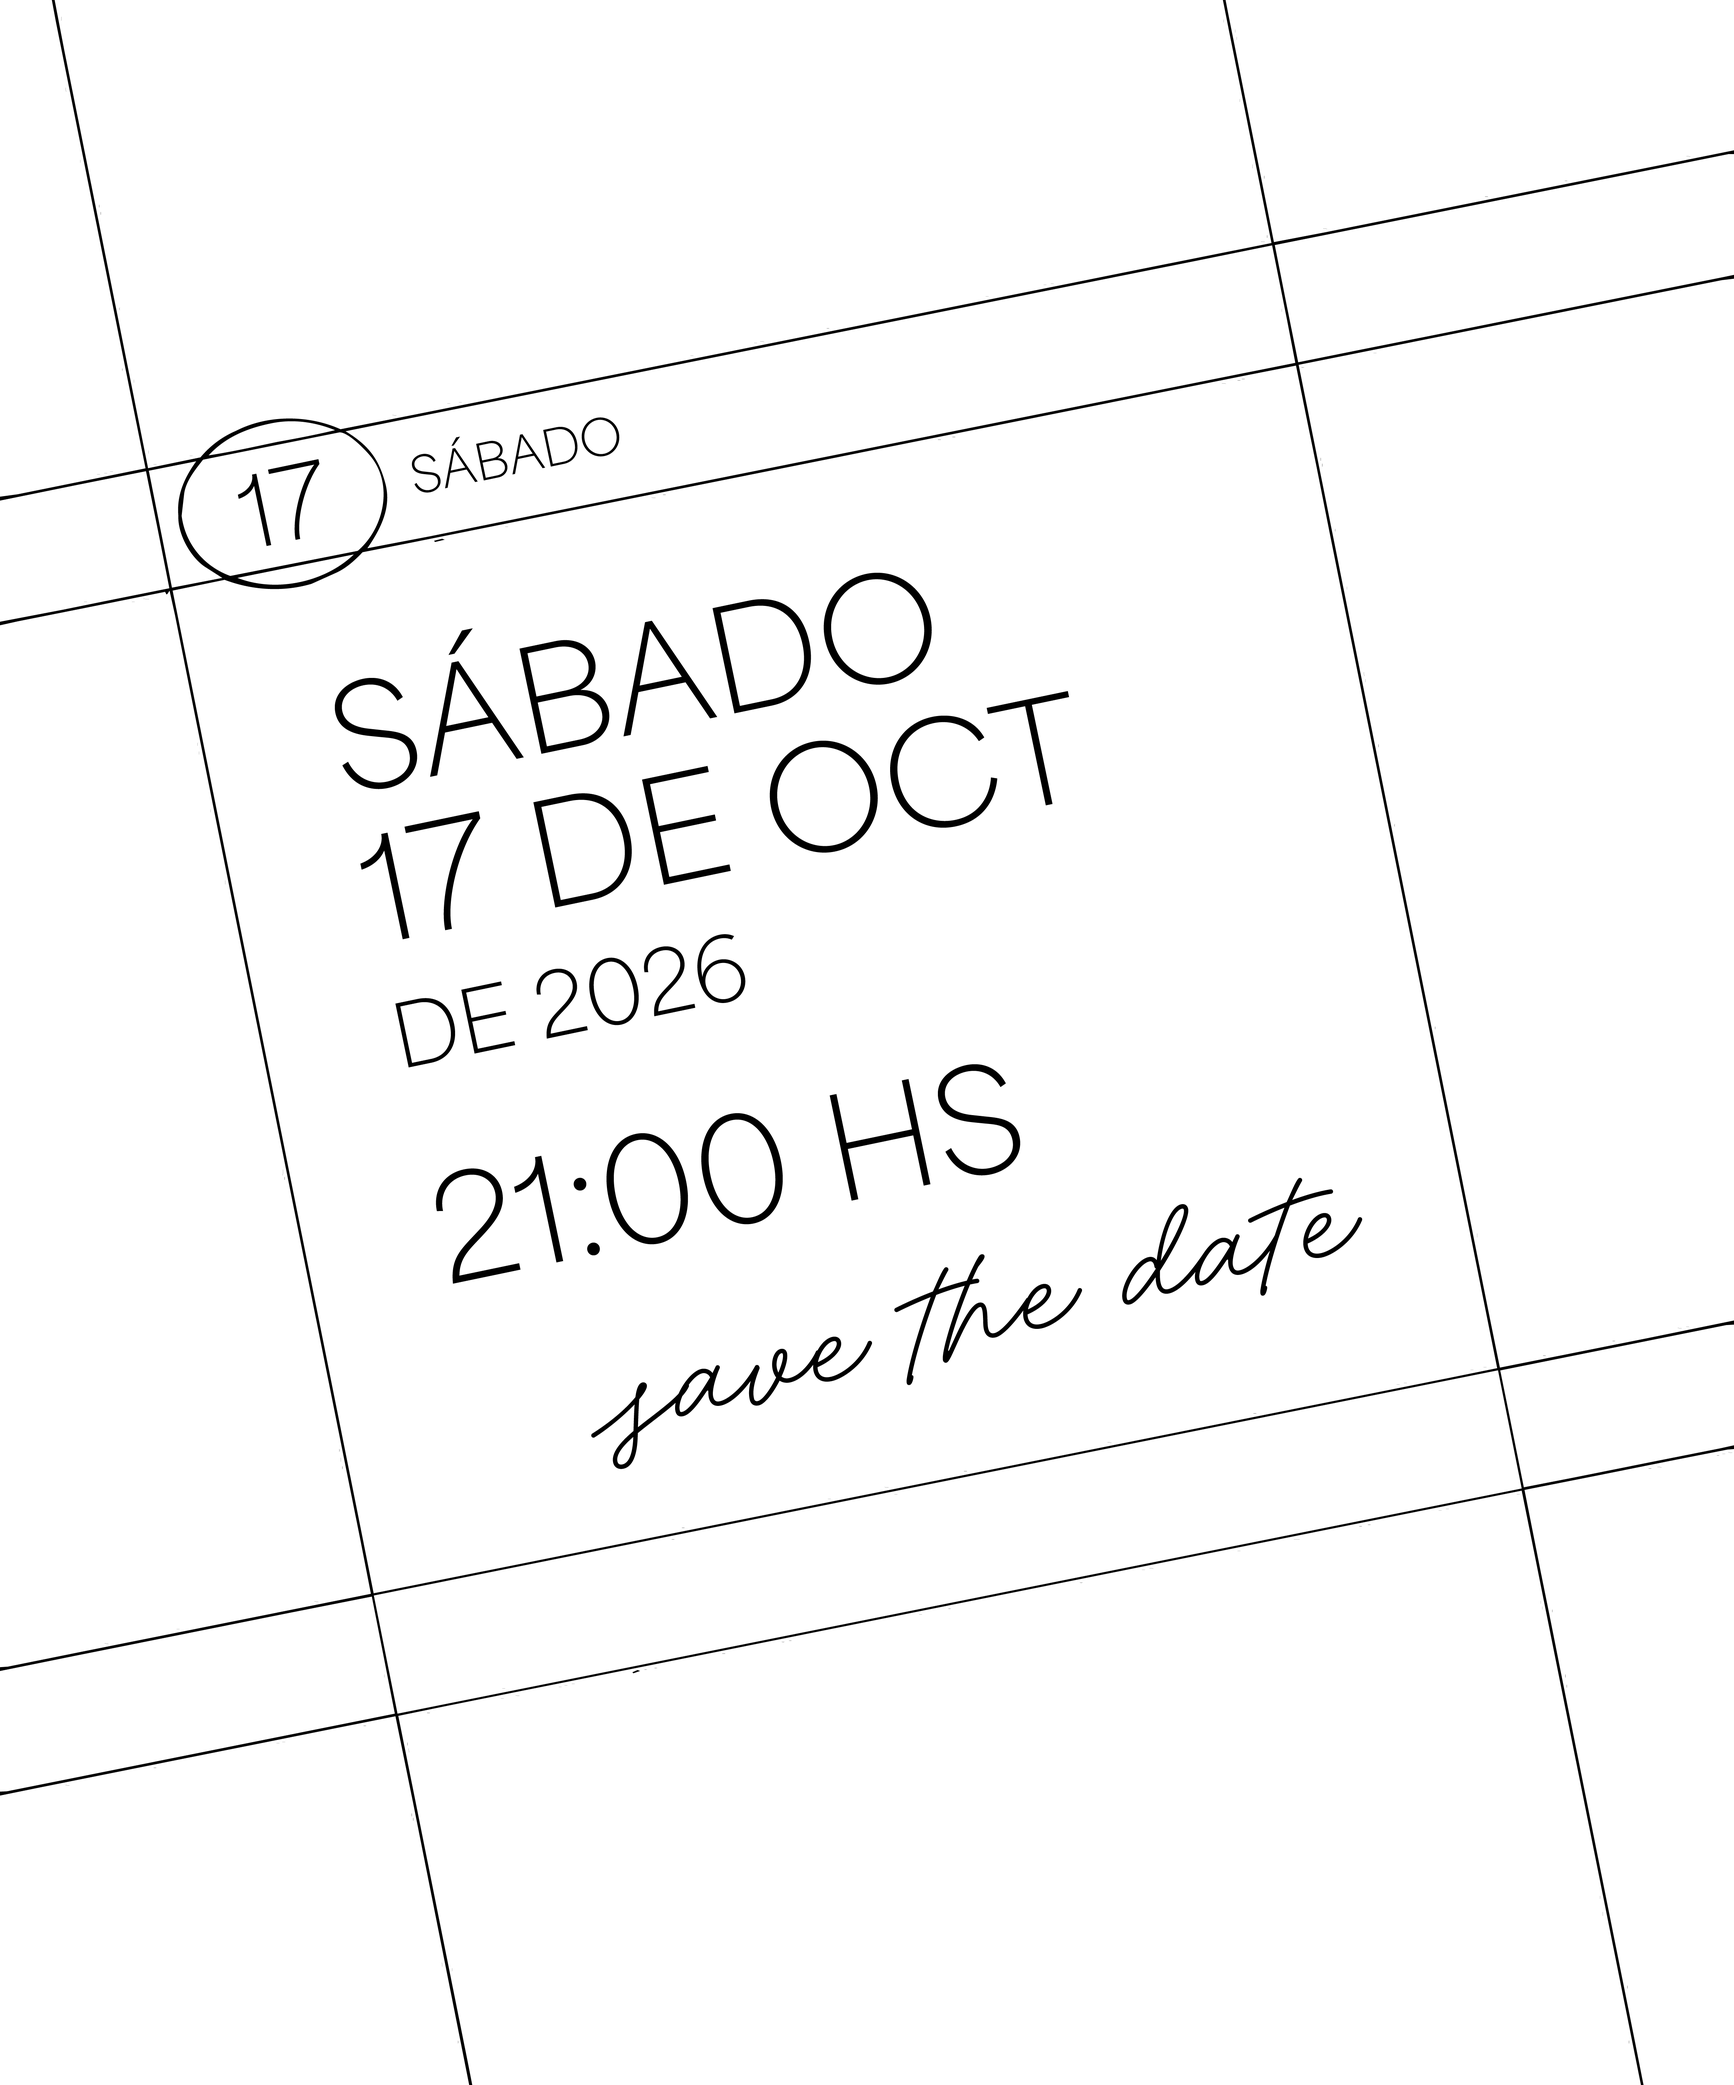
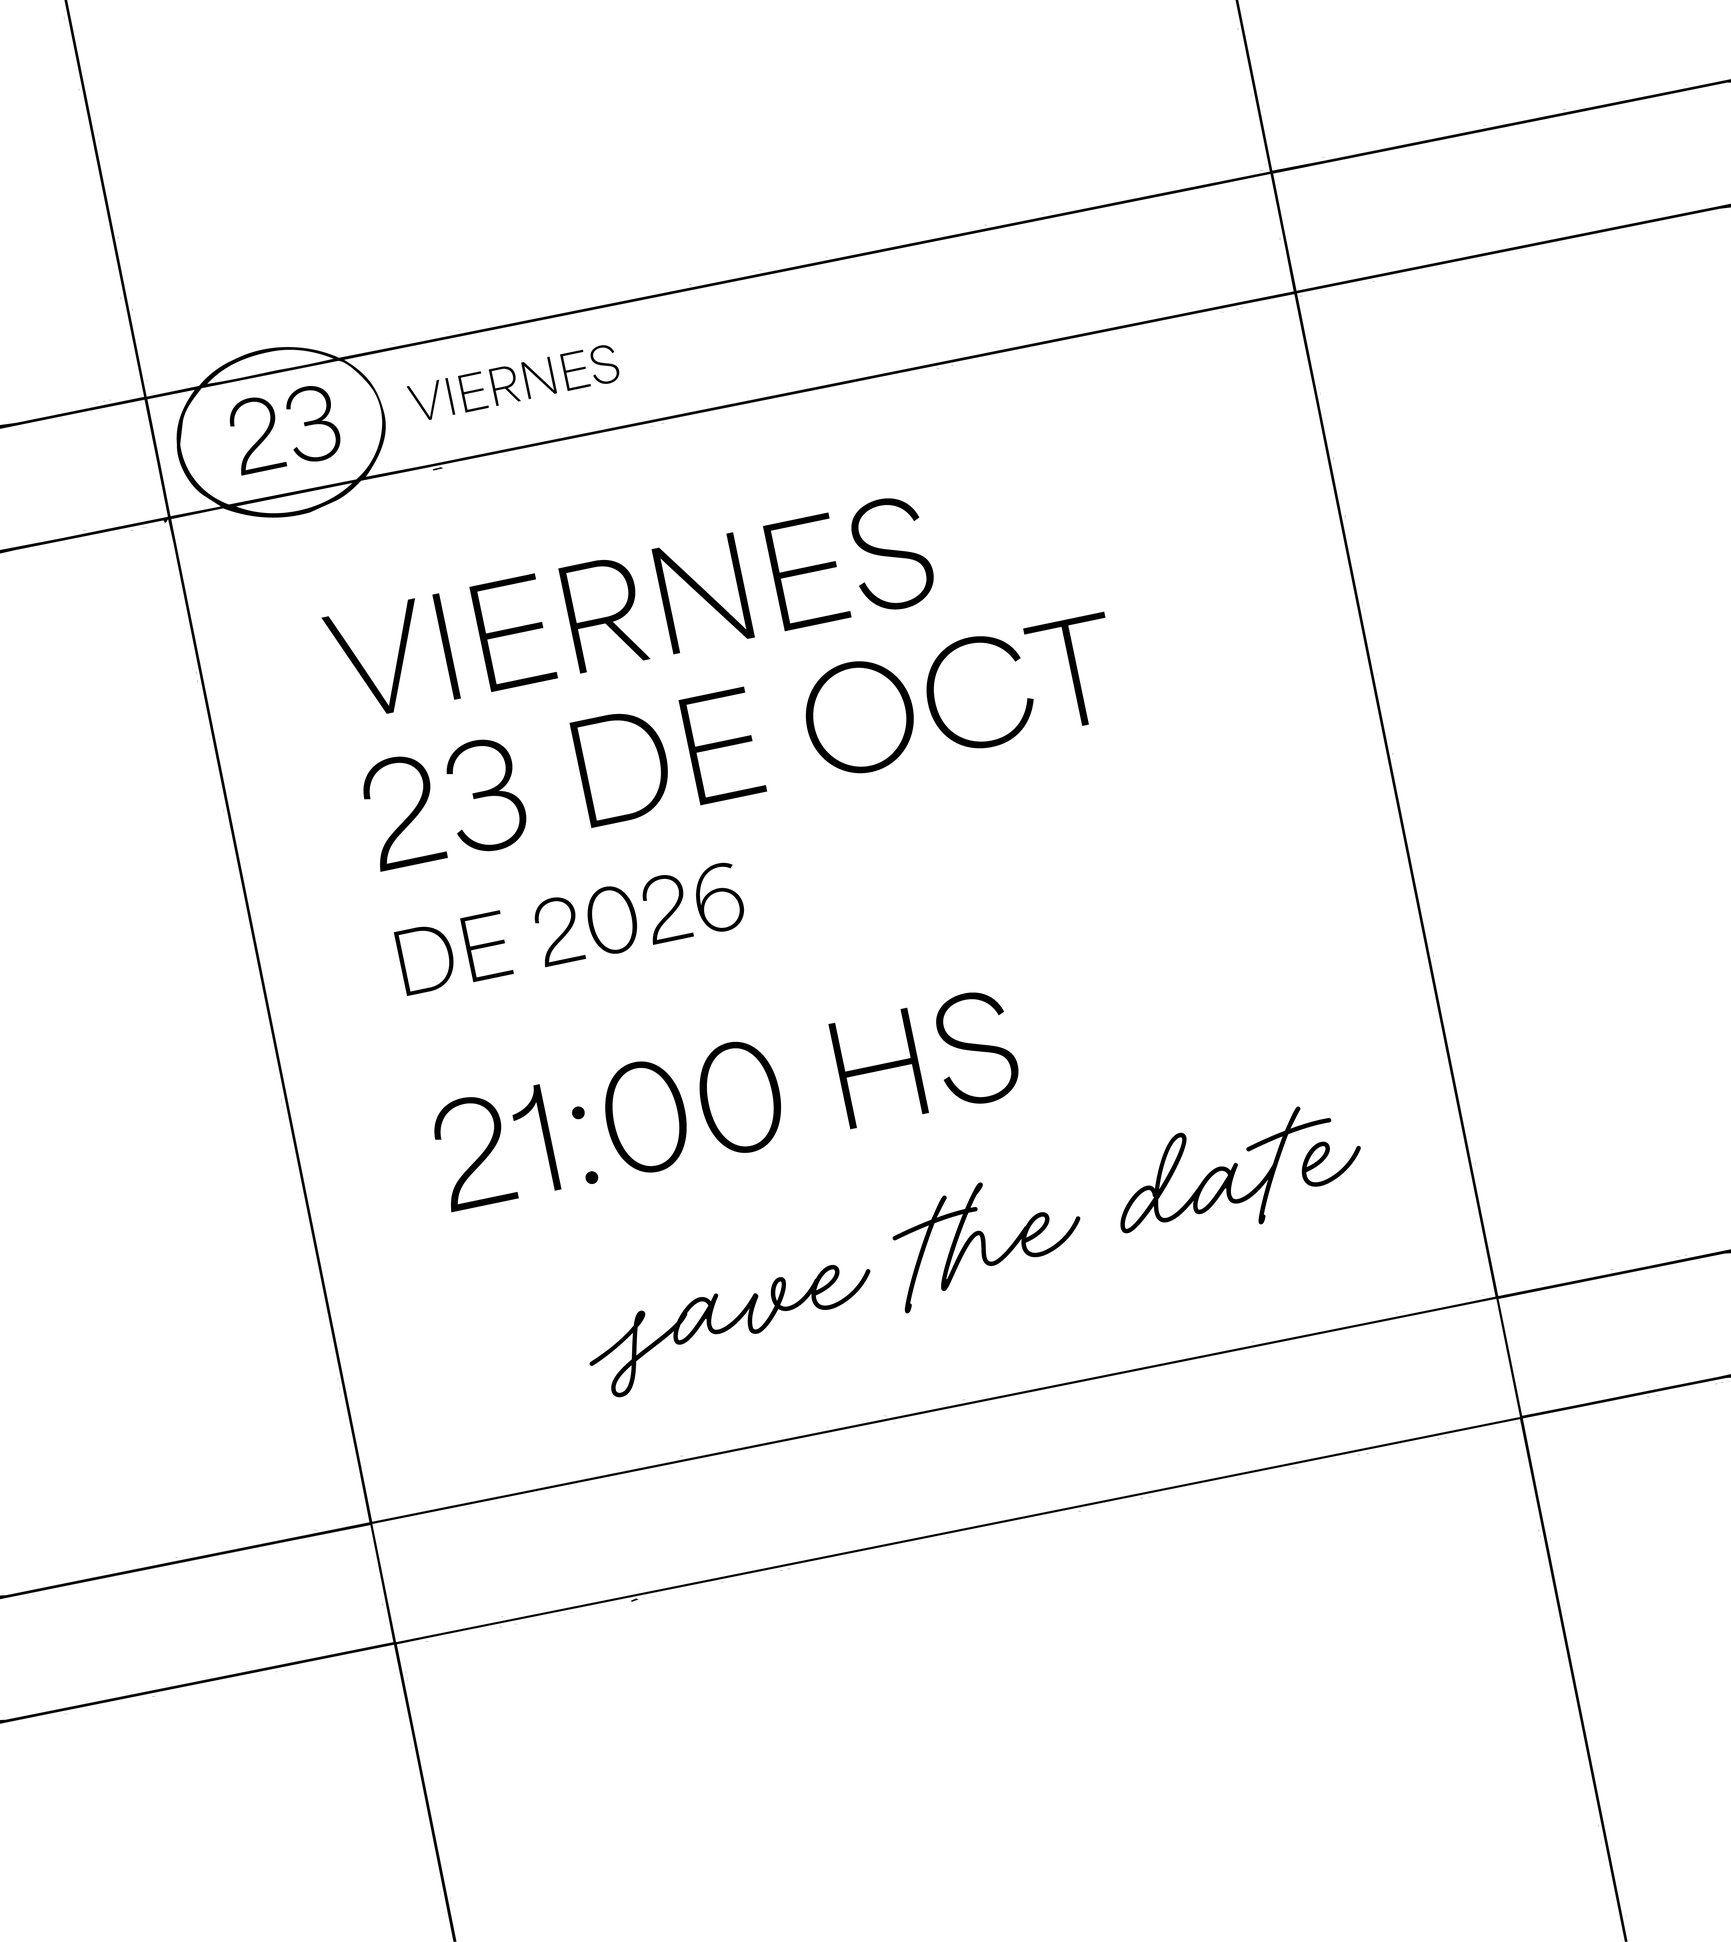
change: reemplazo fecha

diff --git a/src/components/Faltan.jsx b/src/components/Faltan.jsx
@@ -2,7 +2,7 @@ import { useState, useEffect } from "react";
 
 export default function Faltan() {
   const calcularTiempoRestante = () => {
-    const diferencia = new Date("2026-10-17") - new Date();
+    const diferencia = new Date("2026-10-23 21:00:00") - new Date();
 
     let tiempoRestante = {
       dias: 0,
@@ -42,9 +42,15 @@ export default function Faltan() {
         pt-10 pb-10 md:pt-16 md:pb-16 tracking-[0.2em] 
     "
     >
-      <h2 className="md:text-xl lg:text-2xl" data-aos="fade-up">FALTAN</h2>
+      <h2 className="md:text-xl lg:text-2xl" data-aos="fade-up">
+        FALTAN
+      </h2>
       {tiempo ? (
-        <div className="flex text-[2.5rem] md:text-[3.5rem] lg:text-[4rem] gap-1 font-normal" data-aos="zoom-in" data-aos-delay="200">
+        <div
+          className="flex text-[2.5rem] md:text-[3.5rem] lg:text-[4rem] gap-1 font-normal"
+          data-aos="zoom-in"
+          data-aos-delay="200"
+        >
           <p>{tiempo.dias.toString().padStart(2, "0")}</p>
           <p>:</p>
           <p>{tiempo.horas.toString().padStart(2, "0")}</p>
@@ -55,7 +61,13 @@ export default function Faltan() {
         </div>
       ) : null}
 
-      <h2 className="pt-1 md:text-xl lg:text-2xl" data-aos="fade-up" data-aos-delay="400">PARA CELEBRAR</h2>
+      <h2
+        className="pt-1 md:text-xl lg:text-2xl"
+        data-aos="fade-up"
+        data-aos-delay="400"
+      >
+        PARA CELEBRAR
+      </h2>
     </section>
   );
 }
